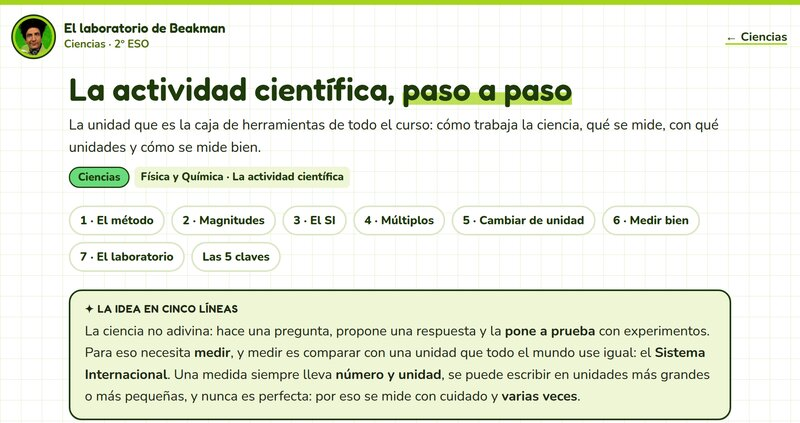
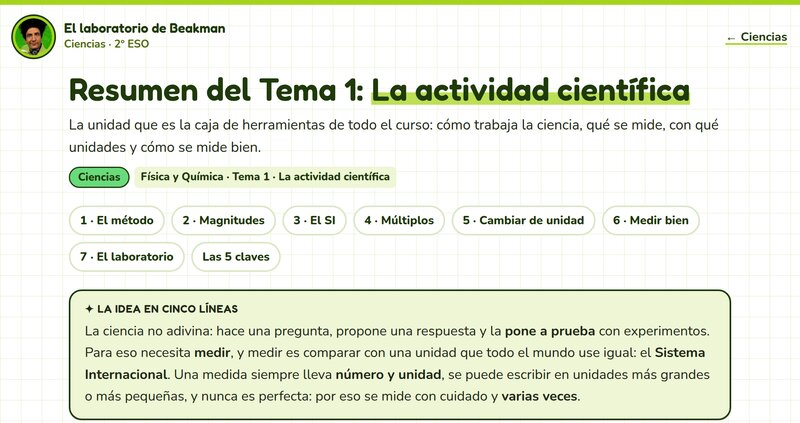
lab: títulos de los resúmenes con la misma forma, «Resumen del Tema N: …»
En el catálogo, en la cabecera de cada página y en sus miniaturas. La etiqueta del de Ciencias
dice también «Tema 1».

Changed region(s): [[0.0938, 0.1844, 0.875, 0.2766], [0.2812, 0.3688, 0.5, 0.461]]

diff --git a/lab/site/es/ciencias/2eso/resumen-actividad-cientifica/index.html b/lab/site/es/ciencias/2eso/resumen-actividad-cientifica/index.html
@@ -3,7 +3,7 @@
 <head>
 <meta charset="utf-8">
 <meta name="viewport" content="width=device-width, initial-scale=1">
-<title>La actividad científica, contada paso a paso · El laboratorio de Beakman</title>
+<title>Resumen del Tema 1: La actividad científica · El laboratorio de Beakman</title>
 <meta name="description" content="Resumen de la unidad «La actividad científica» de Física y Química de 2º ESO: método científico, magnitudes, unidades, cambio de unidades, medida y laboratorio.">
 <link rel="icon" href="../../../../media/favicon.svg" type="image/svg+xml">
 <link rel="icon" href="../../../../media/favicon-32.png" sizes="32x32" type="image/png">
@@ -47,9 +47,9 @@ code { font-family: inherit; font-weight: 800; color: var(--ink); background: #f
 </header>
 <main class="wrap">
   <div class="rhead">
-    <h1>La actividad científica, <em>paso a paso</em></h1>
+    <h1>Resumen del Tema 1: <em>La actividad científica</em></h1>
     <p class="lead">La unidad que es la caja de herramientas de todo el curso: cómo trabaja la ciencia, qué se mide, con qué unidades y cómo se mide bien.</p>
-    <div class="meta"><span class="subj" style="--subj:#69DB7C">Ciencias</span><span class="tag">Física y Química · La actividad científica</span></div>
+    <div class="meta"><span class="subj" style="--subj:#69DB7C">Ciencias</span><span class="tag">Física y Química · Tema 1 · La actividad científica</span></div>
   </div>
 
   <nav class="tabs" aria-label="Apartados">

diff --git a/lab/site/es/index.html b/lab/site/es/index.html
@@ -48,7 +48,7 @@
     <img src="../media/resumen-tema-1.jpg" alt="" width="800" height="423" loading="lazy">
     <div class="body">
       <div class="meta"><span class="subj">Historia</span><span class="tag">2º ESO · Tema 1 · La huella andalusí</span></div>
-      <h3>El Tema 1 contado como una historia</h3>
+      <h3>Resumen del Tema 1: La huella andalusí</h3>
       <p>El tema entero en una lectura: del fin de Roma al reino nazarí de Granada, apartado por apartado, contado como una cadena de qué provocó qué.</p>
     </div>
   </a>
@@ -56,7 +56,7 @@
     <img src="../media/resumen-actividad-cientifica.jpg" alt="" width="800" height="423" loading="lazy">
     <div class="body">
       <div class="meta"><span class="subj">Ciencias</span><span class="tag">2º ESO · Física y Química · Tema 1 · La actividad científica</span></div>
-      <h3>La actividad científica, paso a paso</h3>
+      <h3>Resumen del Tema 1: La actividad científica</h3>
       <p>La unidad entera en una lectura: el método científico, las magnitudes, el Sistema Internacional, múltiplos y submúltiplos, el factor de conversión, medir bien y el laboratorio.</p>
     </div>
   </a>

diff --git a/lab/site/es/historia/2eso/resumen-tema-1/index.html b/lab/site/es/historia/2eso/resumen-tema-1/index.html
@@ -3,7 +3,7 @@
 <head>
 <meta charset="utf-8">
 <meta name="viewport" content="width=device-width, initial-scale=1">
-<title>El Tema 1 contado como una historia · El laboratorio de Beakman</title>
+<title>Resumen del Tema 1: La huella andalusí · El laboratorio de Beakman</title>
 <meta name="description" content="Resumen del Tema 1 de Historia de 2º ESO (La huella andalusí): qué provocó qué, en economía, política, religión y cultura.">
 <link rel="icon" href="../../../../media/favicon.svg" type="image/svg+xml">
 <link rel="icon" href="../../../../media/favicon-32.png" sizes="32x32" type="image/png">
@@ -43,7 +43,7 @@ main.wrap { max-width: 860px; }
 </header>
 <main class="wrap">
   <div class="rhead">
-    <h1>El Tema 1 contado <em>como una historia</em></h1>
+    <h1>Resumen del Tema 1: <em>La huella andalusí</em></h1>
     <p class="lead">No es una lista de fechas: es una cadena de qué provocó qué. Si entiendes las causas, las fechas encajan solas.</p>
     <div class="meta"><span class="subj" style="--subj:#FFD43B">Historia</span><span class="tag">Tema 1 · La huella andalusí</span></div>
   </div>

diff --git a/lab/site/es/ciencias/index.html b/lab/site/es/ciencias/index.html
@@ -31,7 +31,7 @@
     <img src="../../media/resumen-actividad-cientifica.jpg" alt="" width="800" height="423" loading="lazy">
     <div class="body">
       <div class="meta"><span class="subj">Ciencias</span><span class="tag">2º ESO · Física y Química · Tema 1 · La actividad científica</span></div>
-      <h3>La actividad científica, paso a paso</h3>
+      <h3>Resumen del Tema 1: La actividad científica</h3>
       <p>La unidad entera en una lectura: el método científico, las magnitudes, el Sistema Internacional, múltiplos y submúltiplos, el factor de conversión, medir bien y el laboratorio.</p>
     </div>
   </a>

diff --git a/lab/site/es/historia/index.html b/lab/site/es/historia/index.html
@@ -31,7 +31,7 @@
     <img src="../../media/resumen-tema-1.jpg" alt="" width="800" height="423" loading="lazy">
     <div class="body">
       <div class="meta"><span class="subj">Historia</span><span class="tag">2º ESO · Tema 1 · La huella andalusí</span></div>
-      <h3>El Tema 1 contado como una historia</h3>
+      <h3>Resumen del Tema 1: La huella andalusí</h3>
       <p>El tema entero en una lectura: del fin de Roma al reino nazarí de Granada, apartado por apartado, contado como una cadena de qué provocó qué.</p>
     </div>
   </a>
